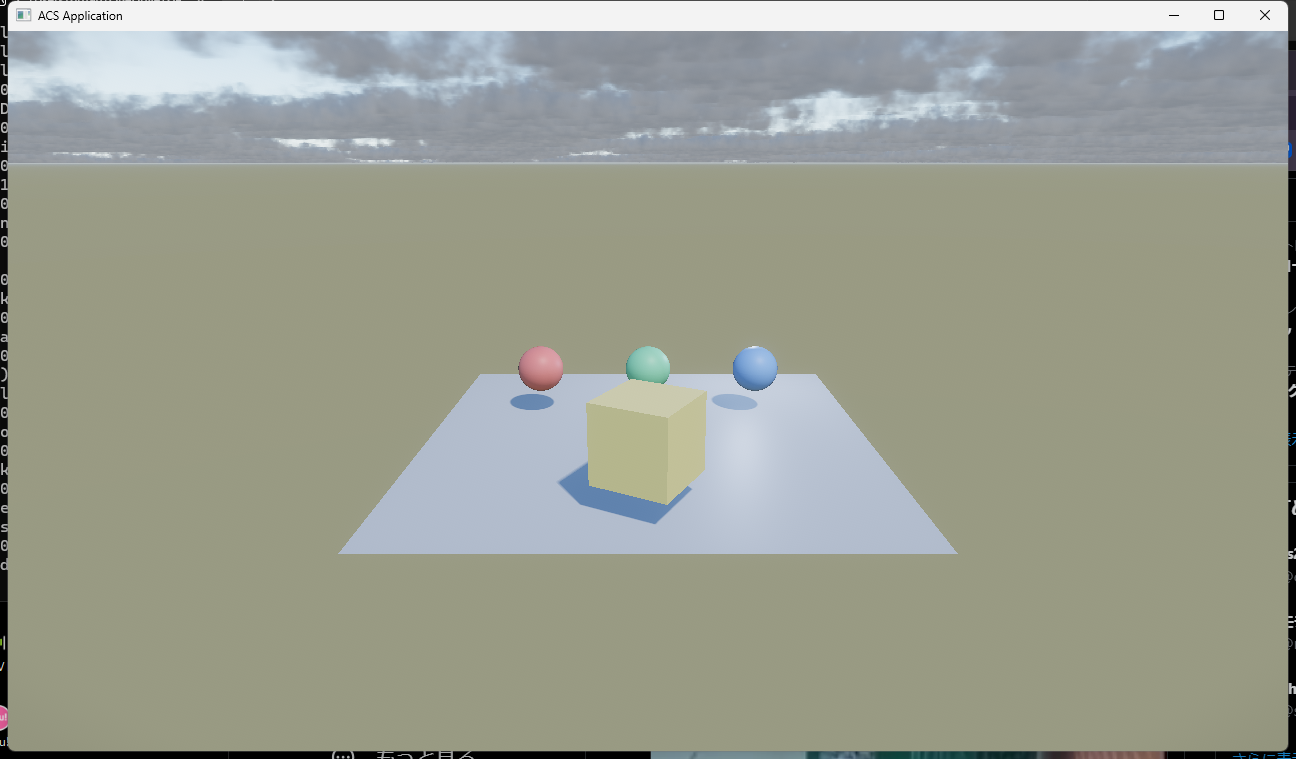
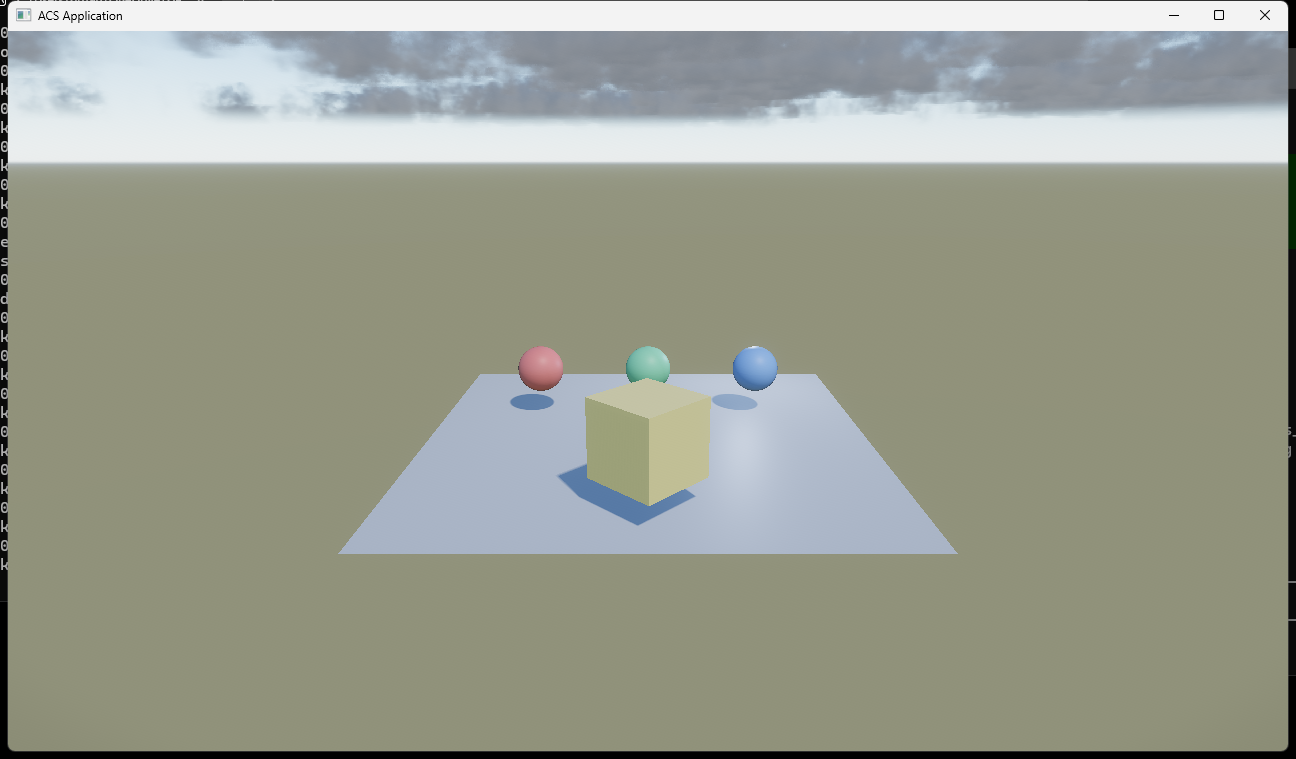
Stop drawing the clouds past the horizon, and stack a high layer
エンジン側に付けた 2 つの口をデモで使う。

**水平線の奥。** shader に 250 km が即値で埋まっていて、そこまで追っていた。遠くの雲は
1 画素に何 km も入るので積分が成立せず、**描くほど «ちらつく細かいゴミ» になる。**
60 km で打ち切り、手前 35 % で薄くする。境界に «壁» は出ない (Docs/cloud-range.png)。

**2 層目。** 空が 1 枚だと «高さ» が読めない。7.4〜9.2 km に薄い高い雲を敷いた。
トレースは 1 本のままで、隙間は密度 0 なので粗い刻みで素通りする
(Docs/cloud-two-layers.png)。割合を 1.0/1.0 にする実験では画面上半分の 22 % が動いた。

あわせて 1 秒ごとの ms/frame を出すようにした。**雲は «どこを向いているか» で値段が変わる**
ので、重さの話をするには数字が要る。Release・1296x759 で上を向いた最悪の構図を測ると:

  雲なし 3.4 ms / 1/4 13.7 / 1/2 30.0 / 3/4 40.6

フレームの 89 % が雲。解像度は見え方の摘みなので 3.0 のまま置く。**粗く描いて軽くするのは
最適化ではない。** 距離の打ち切りは «無駄を消す» 側なので入れてある。

Claude-Session: https://claude.ai/code/session_01QWWHaYrgcmNEqsp8SUqeVs

diff --git a/Source/AcsFramework_Sample/Scene/Demo3DScene.cpp b/Source/AcsFramework_Sample/Scene/Demo3DScene.cpp
@@ -85,9 +85,24 @@ void ADemo3DScene::OnEnter() noexcept
 	// 効く相手が無く、**灰色の靄にしかならない**。厚みがあって初めて上面と底面に差が出る。
 	Clouds().Coverage = 0.68f;
 	Clouds().Density = 2.8f;
-	Clouds().RenderScale = 3.0f;   // 画面の 3/4 の寸法でトレースする (1.0 は 1/4)
 	Clouds().BaseAltitude = 2600.0f;  // 低いと地平線を真横から貫いて、そこだけ粗く見える
 	Clouds().TopAltitude = 5200.0f;
+
+	// 上に薄い高い雲を敷く。1 枚だけだと空の «高さ» が読めない。
+	// 同じレイで両方を通るので、2 倍にはならない。
+	Clouds().UpperLayer.BaseAltitude = 7400.0f;
+	Clouds().UpperLayer.TopAltitude = 9200.0f;
+
+	// トレースの解像度。**雲の値段はほぼここで決まる。**
+	//
+	// 上を向いて画面全部が雲になる最悪の構図を Release で測ると (1296x759):
+	//
+	//   雲なし  3.4 ms   /  1/4 (1.0)  13.7 ms
+	//   1/2 (2.0) 30.0 ms  /  3/4 (3.0)  40.6 ms
+	//
+	// ここは**見え方の摘みであって、速さの摘みではない**。重いなら描き方を速くする話で、
+	// 粗く描いて誤魔化す話ではない。3.0 のまま置く。
+	Clouds().RenderScale = 3.0f;
 
 	// 大気が描く «地面» の色を、置いた床に寄せる。ここがずれると、地平線から下だけ
 	// 別の場所の色になり、床の縁で色が切り替わって見える。
@@ -96,17 +111,35 @@ void ADemo3DScene::OnEnter() noexcept
 	// 全体が入る位置までカメラを引く。
 	FrameScene();
 
-	// カメラを固定する。自由カメラを入れたままだと矢印キーで画角が変わり、
-	// 撮り比べたときに «何が変わったのか» が分からなくなる。
-	SetFreeCameraEnabled( false );
+	// 見回せるようにしておく。矢印キーで回り、WASD で寄る。
+	//
+	// 切ると画角が動かなくなる。**撮り比べるときは切ること。** 入れたままだと撮影中の
+	// キー入力で画角が変わり、«何が変わったのか» が分からない画が並ぶ。
+	SetFreeCameraEnabled( true );
 	SetOrbit( FVec3{ 0.0f, 1.0f, 0.0f }, 0.0f, 0.32f, 14.0f );
+}
 
+
+void ADemo3DScene::ReportFrameTime( f32 DeltaSeconds ) noexcept
+{
+	m_FrameTimeAccum += DeltaSeconds;
+	++m_FrameCount;
+
+	if ( m_FrameTimeAccum < 1.0f ) return;
+
+	const f32 Milliseconds = m_FrameTimeAccum * 1000.0f / static_cast<f32>( m_FrameCount );
+	ACS_LOG_INFO( "Demo3D: %.2f ms/frame (%u fps)",
+		static_cast<f64>( Milliseconds ), m_FrameCount );
+
+	m_FrameTimeAccum = 0.0f;
+	m_FrameCount = 0u;
 }
 
 
 void ADemo3DScene::OnUpdate( f32 DeltaSeconds ) noexcept
 {
 	ALegacyScene3DAdapter::OnUpdate( DeltaSeconds );
+	ReportFrameTime( DeltaSeconds );
 
 	if ( m_Spinner == nullptr ) return;
 

diff --git a/Source/AcsFramework_Sample/Scene/Demo3DScene.h b/Source/AcsFramework_Sample/Scene/Demo3DScene.h
@@ -33,9 +33,26 @@ public:
 	void OnUpdate( f32 DeltaSeconds ) noexcept override;
 
 private:
+	/**
+	 * 1 秒ぶんためて、平均のフレーム時間を 1 行だけ出す。
+	 *
+	 * @details
+	 * **雲は «どこを向いているか» で値段が変わる。** 上を向けば画面全部が雲になり、
+	 * 地平線を見れば 1 本のレイが数十 km を貫く。重さの話をするには数字が要る。
+	 *
+	 * @param DeltaSeconds 経過秒。
+	 */
+	void ReportFrameTime( f32 DeltaSeconds ) noexcept;
+
 	/** 回す対象。所有はしない (木が持っている)。 */
 	ANode* m_Spinner = nullptr;
 
 	/** 回した量 (度)。 */
 	f32 m_SpinDegrees = 0.0f;
+
+	/** 直近 1 秒ぶんの経過秒の合計。 */
+	f32 m_FrameTimeAccum = 0.0f;
+
+	/** 直近 1 秒ぶんのフレーム数。 */
+	u32 m_FrameCount = 0u;
 };
